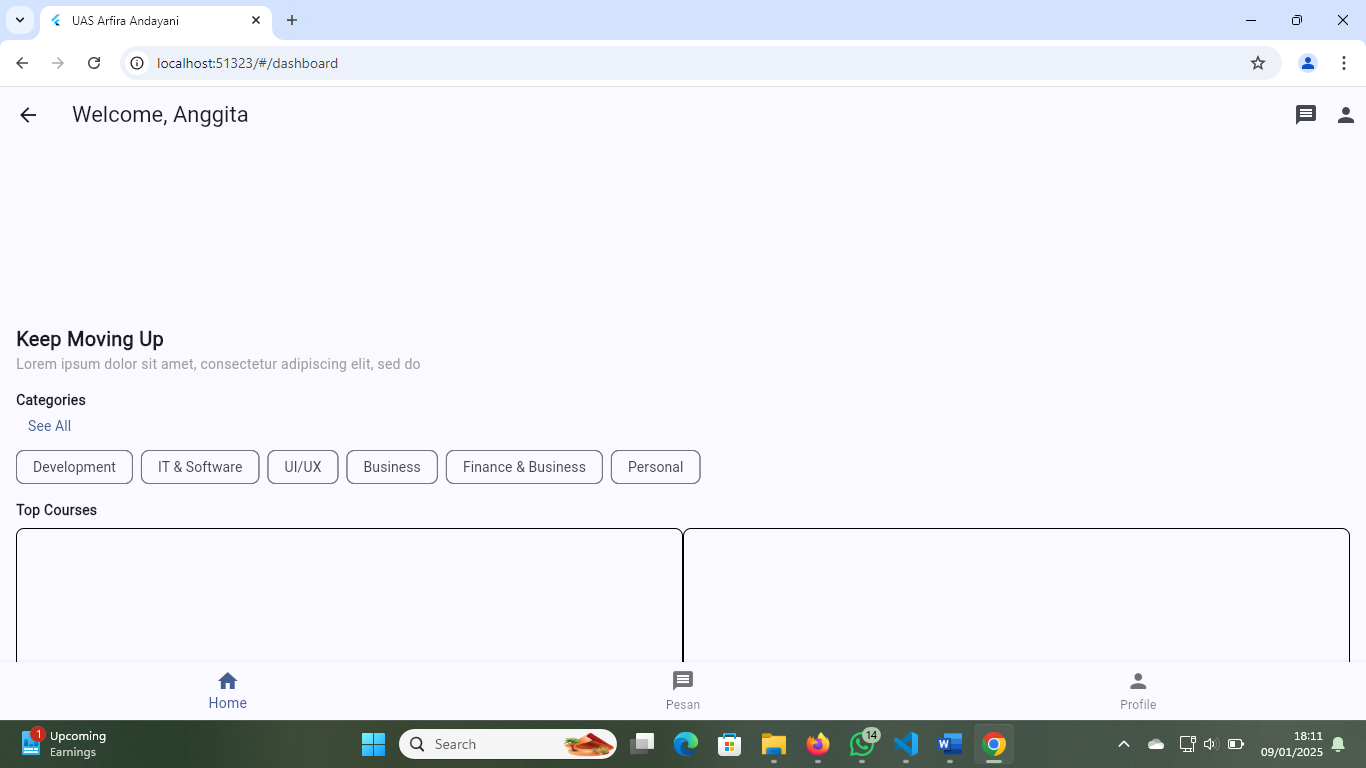
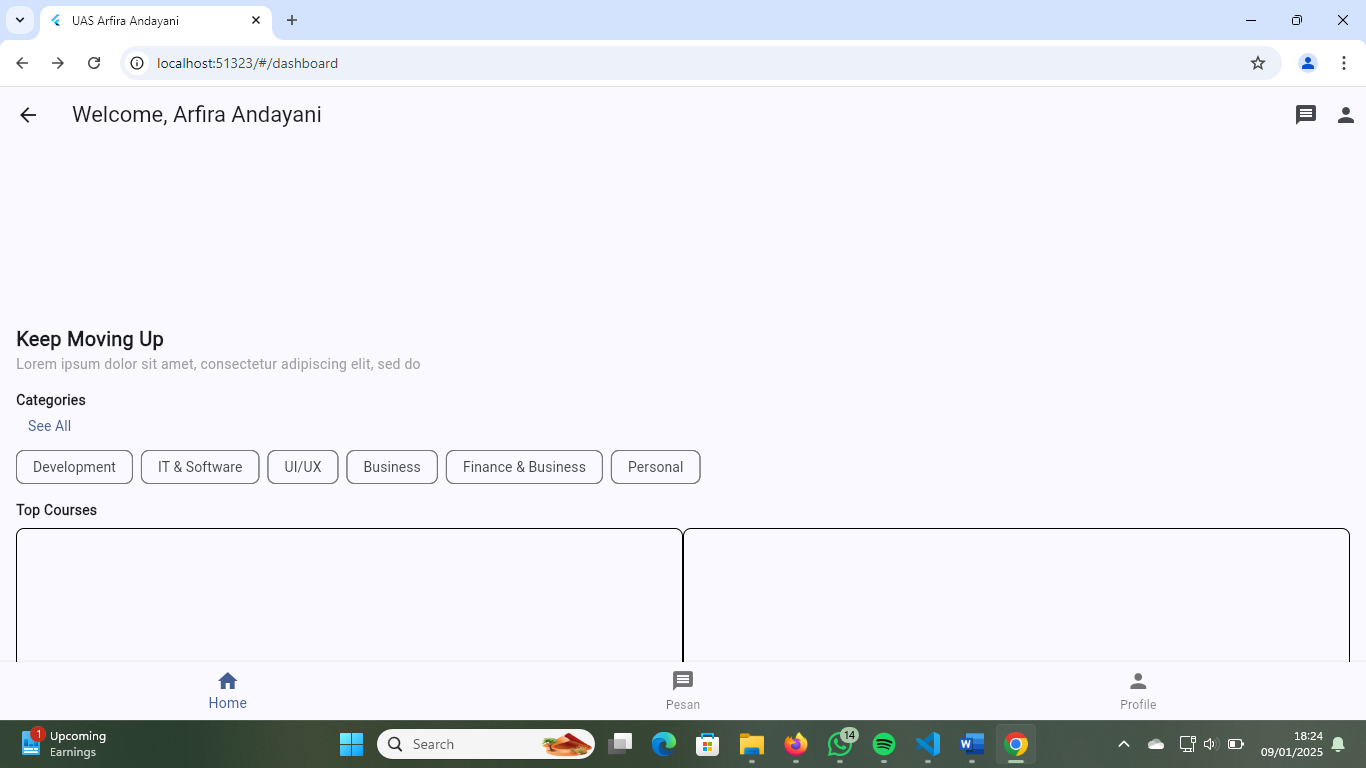
dashboard new

Changed region(s): [[0.3997, 0.9375, 0.7687, 1.0], [0.246, 0.9375, 0.3382, 1.0], [0.123, 0.125, 0.246, 0.1562]]

diff --git a/lib/main.dart b/lib/main.dart
@@ -1,4 +1,5 @@
 import 'package:flutter/material.dart';
+import 'package:template_project/screen/message_screen.dart';
 import 'package:template_project/screen/welcome_screen.dart';
 import 'package:template_project/screen/signin_screen.dart';
 import 'package:template_project/screen/signup_screen.dart';
@@ -27,7 +28,6 @@ class MyApp extends StatelessWidget {
         '/signup': (context) => SignUpScreen(),
         '/signin': (context) => SignInScreen(),
         '/dashboard': (context) => DashboardScreen(),
-
       },
     );
   }

diff --git a/lib/screen/dashboard_screen.dart b/lib/screen/dashboard_screen.dart
@@ -5,7 +5,7 @@ class DashboardScreen extends StatelessWidget {
   Widget build(BuildContext context) {
     return Scaffold(
       appBar: AppBar(
-        title: Text('Welcome, Anggita'),
+        title: Text('Welcome, Arfira Andayani'),
         actions: [
           IconButton(
             icon: Icon(Icons.message),
